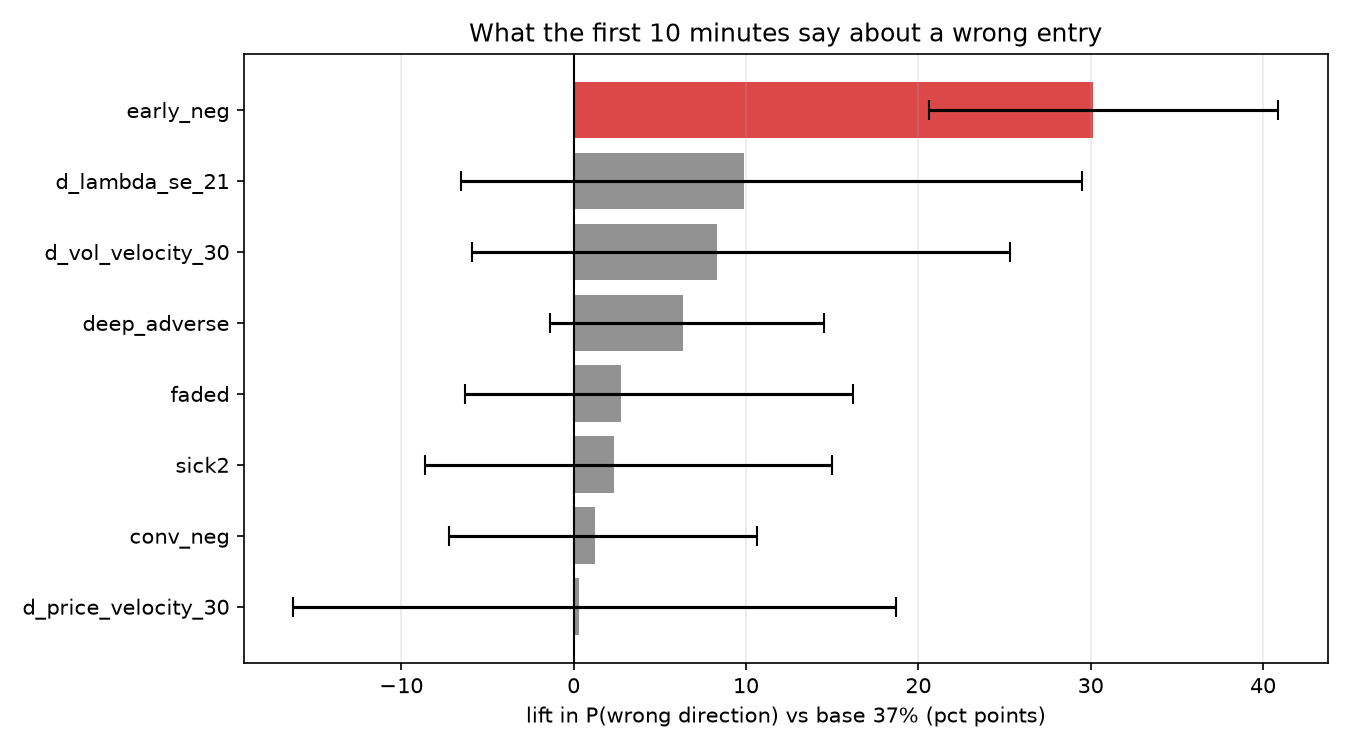
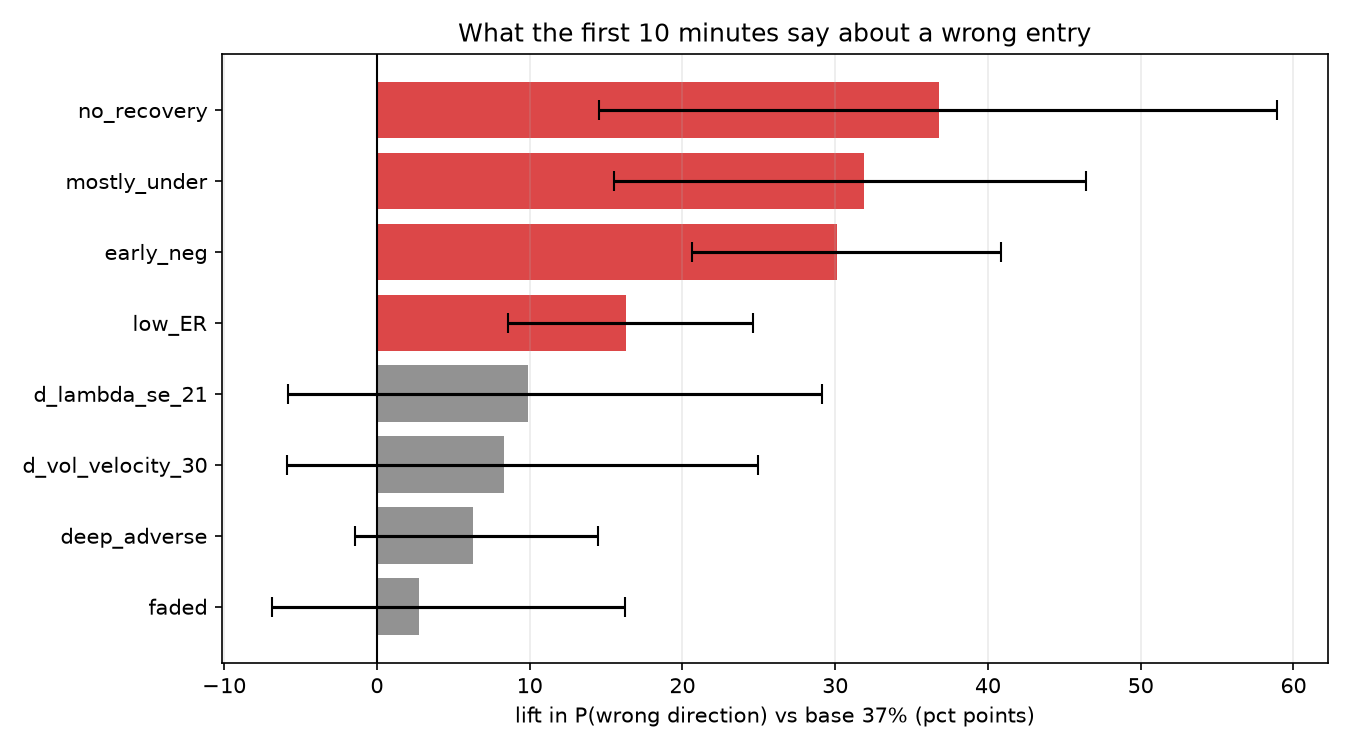
research: around-the-point signals — SHAPE beats level: no_recovery +37 CI[+15,+59], mostly_under +32, low_ER +16 (orthogonal efficiency dim); fires parse too coarse (n=155/156, refine later); ldist inverse re-confirmed

diff --git a/research/leg_volume_dossier/tools/wrong_direction_detect.py b/research/leg_volume_dossier/tools/wrong_direction_detect.py
@@ -36,6 +36,9 @@ OUT_PNG = os.path.join(PROJ, 'reports', 'assets', 'wrong_direction.png')
 KV = re.compile(r'(\w+)=([+-]?\d+(?:\.\d+)?)')
 PX = re.compile(r'px ([+-]?\d+(?:\.\d+)?)pts')
 LEG = re.compile(r'leg age (\d+)m')
+ER = re.compile(r'ER10 ([\d.]+)')
+FW = re.compile(r'(\w+)-with\(')
+FA = re.compile(r'(\w+)-against\(')
 NEED = sorted({f for f, _ in SICK_DETECTORS} | {'body', 'bar_range'})
 W = 10
 N_BOOT = 4000
@@ -57,6 +60,11 @@ def parse(text):
             m = LEG.search(s)
             if m:
                 leg = float(m.group(1))
+            m = ER.search(s)
+            if m:
+                feats['ER10'] = float(m.group(1))
+            feats['fires_with'] = len(FW.findall(s))
+            feats['fires_against'] = len(FA.findall(s))
     return feats, px, leg
 
 
@@ -87,8 +95,18 @@ def main():
             early_px.append(px)
         if not early_px:
             continue
+        trough = min(early_px)
+        recov = early_px[-1] - trough
+        under_frac = st.mean([1 if p < 0 else 0 for p in early_px])
+        last = rows[:W][-1][0] if rows[:W] else {}
         rows_out.append(dict(
             day=day, wrong=int(wrong),
+            no_recovery=int(early_px[-1] < 0 and recov < 5),
+            recovering=int(early_px[-1] < 0 and recov >= 10),
+            mostly_under=int(under_frac >= 0.7),
+            fires_against=int(sum(r[0].get('fires_against', 0) for r in rows[:W]) >= 2),
+            fires_with=int(sum(r[0].get('fires_with', 0) for r in rows[:W]) >= 2),
+            low_ER=int(last.get('ER10', 1) < 0.2),
             early_neg=int(early_px[-1] < 0),
             deep_adverse=int(min(early_px) < -10),
             sick2=int(max_sick >= 2),
@@ -99,7 +117,9 @@ def main():
     days = sorted({r['day'] for r in rows_out})
     by_day = {d: [r for r in rows_out if r['day'] == d] for d in days}
     base = st.mean([r['wrong'] for r in rows_out])
-    signals = ['early_neg', 'deep_adverse', 'sick2', 'faded', 'conv_neg'] + \
+    signals = ['early_neg', 'no_recovery', 'recovering', 'mostly_under',
+               'fires_against', 'fires_with', 'low_ER',
+               'deep_adverse', 'sick2', 'faded', 'conv_neg'] + \
               [f'd_{f}' for f, _ in SICK_DETECTORS]
     rng = random.Random(SEED)
     results = []

diff --git a/research/leg_volume_dossier/reports/wrong_direction_detect.md b/research/leg_volume_dossier/reports/wrong_direction_detect.md
@@ -4,14 +4,19 @@ BASELINE TO BEAT: early_neg (px<0 at minute 10).
 
 | signal | n on | P(wrong|on) | lift | 95% CI | sig |
 |---|---|---|---|---|---|
+| no_recovery | 15 | 73% | +37% | [+15%, +59%] | YES |
+| mostly_under | 19 | 68% | +32% | [+16%, +46%] | YES |
 | early_neg | 33 | 67% | +30% | [+21%, +41%] | YES |
-| d_lambda_se_21 | 28 | 46% | +10% | [-7%, +29%] |  |
+| low_ER | 53 | 53% | +16% | [+9%, +25%] | YES |
+| d_lambda_se_21 | 28 | 46% | +10% | [-6%, +29%] |  |
 | d_vol_velocity_30 | 29 | 45% | +8% | [-6%, +25%] |  |
 | deep_adverse | 63 | 43% | +6% | [-1%, +14%] |  |
-| faded | 56 | 39% | +3% | [-6%, +16%] |  |
-| sick2 | 54 | 39% | +2% | [-9%, +15%] |  |
+| faded | 56 | 39% | +3% | [-7%, +16%] |  |
+| sick2 | 54 | 39% | +2% | [-9%, +16%] |  |
 | conv_neg | 82 | 38% | +1% | [-7%, +11%] |  |
-| d_price_velocity_30 | 38 | 37% | +0% | [-16%, +19%] |  |
+| d_price_velocity_30 | 38 | 37% | +0% | [-16%, +18%] |  |
+| fires_against | 156 | 37% | +0% | [+0%, +0%] |  |
+| fires_with | 155 | 36% | -0% | [-1%, +0%] |  |
 | d_swing_noise_30 | 49 | 35% | -2% | [-14%, +10%] |  |
-| d_price_accel_1b | 31 | 32% | -4% | [-17%, +10%] |  |
-| d_ldist_std | 15 | 13% | -23% | [-40%, -5%] |  |
+| d_price_accel_1b | 31 | 32% | -4% | [-18%, +10%] |  |
+| d_ldist_std | 15 | 13% | -23% | [-39%, -5%] |  |
